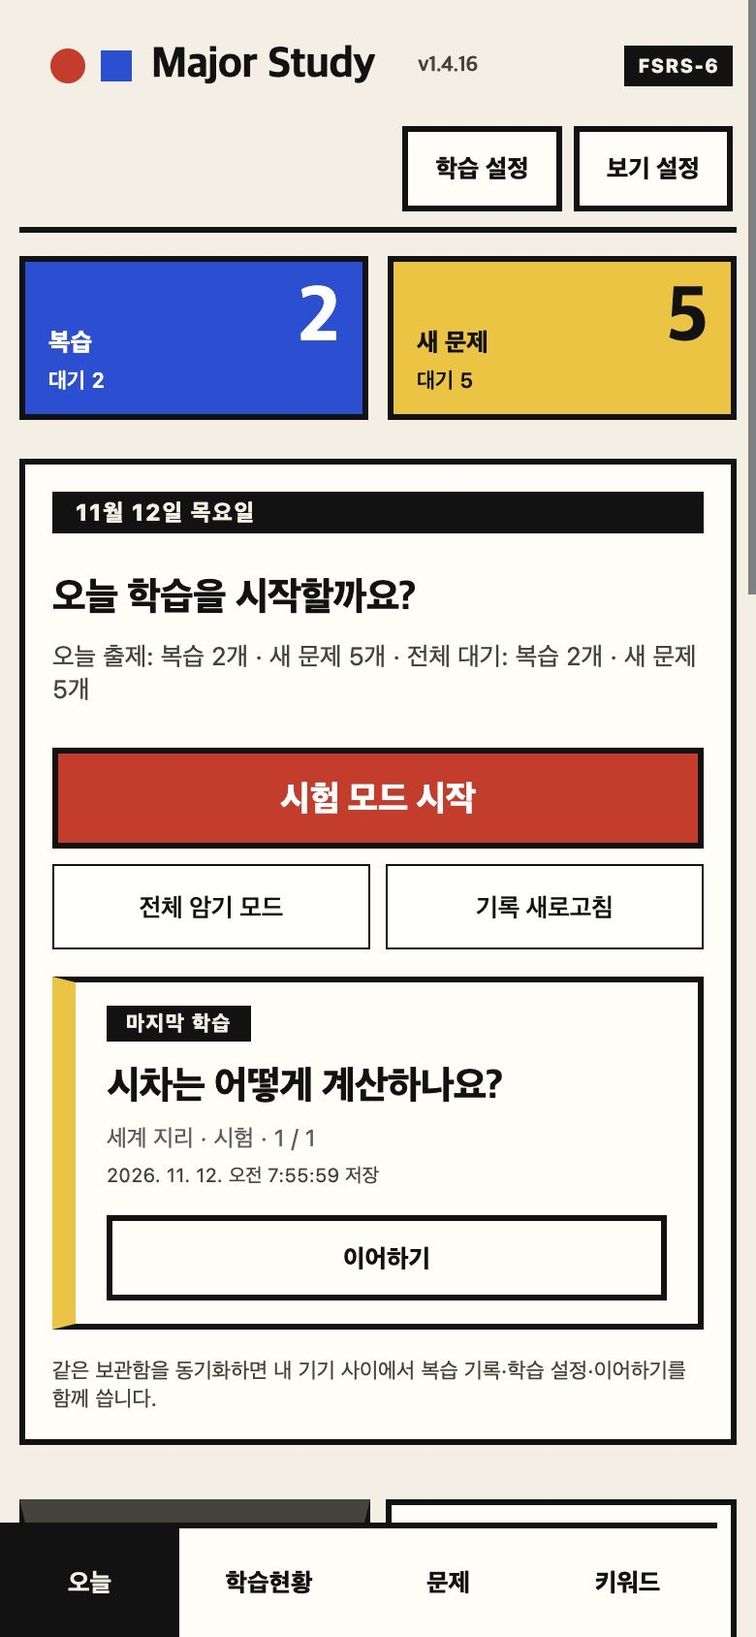
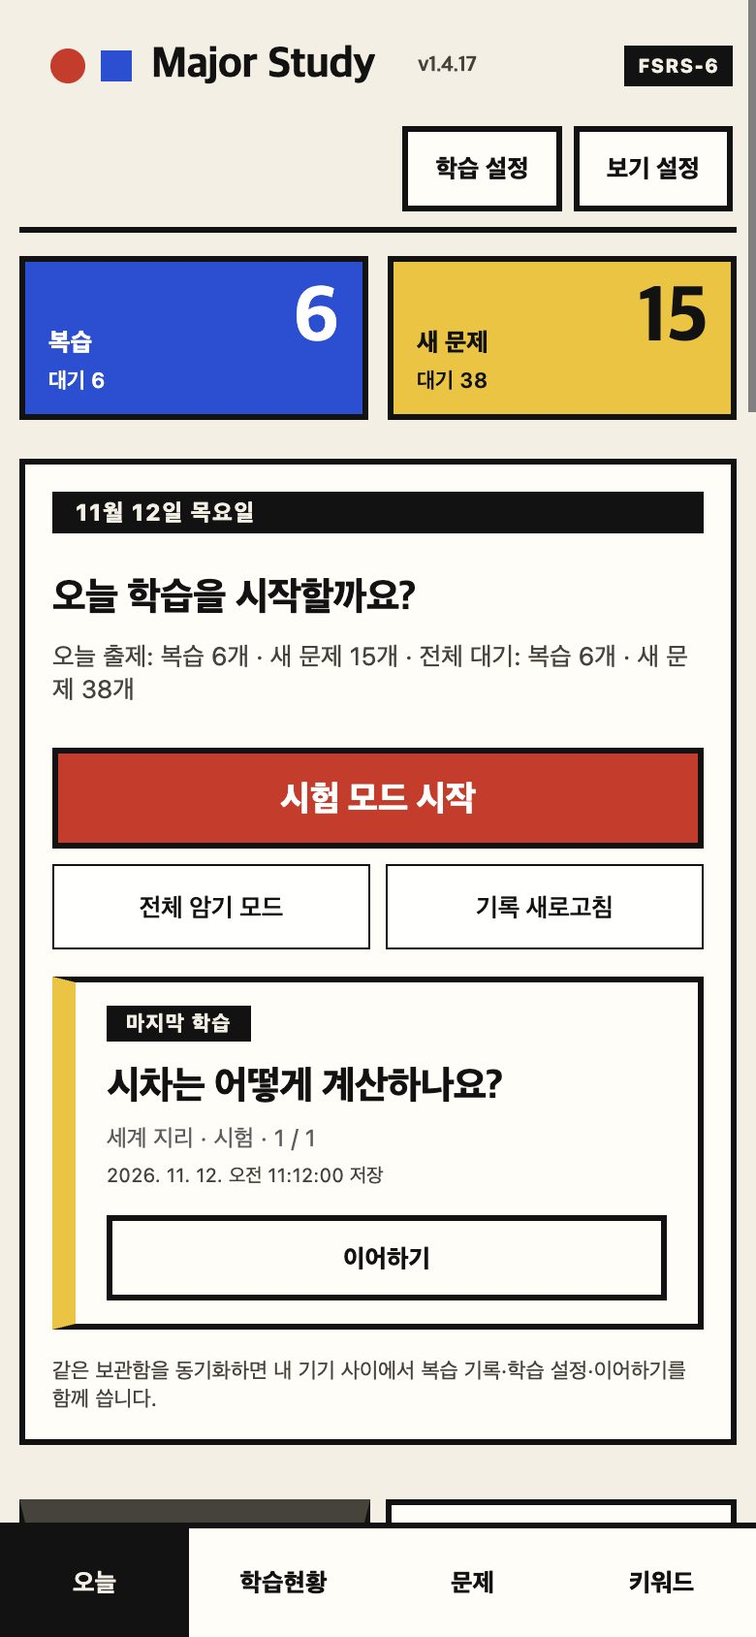
release: MIA Study 1.4.17
Phone layout fixes from a real-iPhone test: a compact study screen, a
full-width tab bar that applies only on phones, and safe-area padding for
the full-screen detail dialog. Homepage mobile screenshots and docs are
updated. main.js and styles.css change; storage format and algorithm are
unchanged.

diff --git a/docs/index.html b/docs/index.html
@@ -5,9 +5,9 @@
 <meta name="viewport" content="width=device-width,initial-scale=1">
 <meta name="color-scheme" content="light dark">
 <title>MIA Study · Obsidian 전공 공부 플러그인</title>
-<meta name="description" content="Obsidian 안에서 전공 질문을 모으고, 키워드로 연결하고, FSRS-6로 복습하는 플러그인. 정식 1.4.16 다운로드와 설치 안내.">
+<meta name="description" content="Obsidian 안에서 전공 질문을 모으고, 키워드로 연결하고, FSRS-6로 복습하는 플러그인. 정식 1.4.17 다운로드와 설치 안내.">
 <meta property="og:title" content="MIA Study · Obsidian 전공 공부 플러그인">
-<meta property="og:description" content="질문·키워드·FSRS-6 복습을 Obsidian 안에서. 정식 1.4.16.">
+<meta property="og:description" content="질문·키워드·FSRS-6 복습을 Obsidian 안에서. 정식 1.4.17.">
 <meta property="og:image" content="https://kimchi-kang.github.io/mia-study-obsidian/assets/screens/desktop-dashboard.jpg">
 <meta property="og:type" content="website">
 <link rel="preconnect" href="https://fonts.googleapis.com">
@@ -279,11 +279,11 @@ footer .fm .t{background:var(--yellow);clip-path:polygon(50% 0,100% 100%,0 100%)
   <div class="wrap">
     <div class="hero-grid">
       <div>
-        <span class="ver">정식 1.4.16</span>
+        <span class="ver">정식 1.4.17</span>
         <h1>질문을 모으고,<br><em>잊기 전에</em><br>다시 꺼낸다.</h1>
         <p class="lead">Obsidian 안에서 과목·질문·키워드를 폼으로 관리하고, FSRS-6로 복습 시점을 잡아 주는 공부 플러그인. Markdown을 직접 쓰지 않아도 되고, 문제마다 노트를 만들지도 않습니다. 1.4.13부터 플러그인 화면도 이 페이지와 같은 바우하우스 스타일(빨강·노랑·파랑, 두꺼운 테두리, 각진 모서리)입니다.</p>
         <div class="cta">
-          <a class="btn btn-red" href="https://github.com/kimchi-kang/mia-study-obsidian/releases/download/1.4.16/mia-study-1.4.16.zip" download>↓ 1.4.16 다운로드</a>
+          <a class="btn btn-red" href="https://github.com/kimchi-kang/mia-study-obsidian/releases/download/1.4.17/mia-study-1.4.17.zip" download>↓ 1.4.17 다운로드</a>
           <a class="btn btn-line" href="#install">BRAT 설치</a>
         </div>
         <p class="meta"><span>무료 · MIT</span><span>데스크톱·모바일</span><span>Obsidian 1.8.7+</span></p>
@@ -419,13 +419,13 @@ footer .fm .t{background:var(--yellow);clip-path:polygon(50% 0,100% 100%,0 100%)
       <div class="sh"><span class="shape sq-y" aria-hidden="true"></span><h2>모바일</h2><span class="num">03</span></div>
       <div class="mob">
         <div>
-          <p>좁은 화면에서는 탭이 한 줄로 줄고 평가 버튼이 2×2로 커집니다. Obsidian의 밝은·어두운 테마를 그대로 따르며, 두 테마 모두 같은 바우하우스 스타일입니다.</p>
+          <p>좁은 화면에서는 탭이 한 줄로 줄고 학습 화면 위쪽이 한 줄 막대로 줄고 평가 버튼이 한 줄로 놓입니다. Obsidian의 밝은·어두운 테마를 그대로 따르며, 두 테마 모두 같은 바우하우스 스타일입니다.</p>
           <p>키보드가 열리면 편집창과 검색·설정 화면이 키보드 위 높이에 맞춰지고, 선택한 입력칸이 보이도록 스크롤됩니다. 버튼은 44px 이상의 터치 영역을 씁니다. 화면 왼쪽 가장자리에서 쓸면 학습을 시작한 화면으로 돌아갑니다.</p>
           <p class="honest">데스크톱 Obsidian에서 휴대폰 폭(390px)으로 찍은 화면입니다. 실제 휴대폰 캡처가 아닙니다.</p>
         </div>
         <div class="phones">
           <figure class="phone"><img src="assets/screens/mobile-dashboard.jpg" width="780" height="1688" loading="lazy" alt="390픽셀 폭 어두운 테마의 오늘 화면. 파란 복습·노란 새 문제 타일, 시험 모드 시작 버튼, 이어하기 카드와 아래쪽 탭 바(오늘·학습현황·문제·키워드)가 보인다."></figure>
-          <figure class="phone"><img src="assets/screens/mobile-study.jpg" width="780" height="1688" loading="lazy" alt="390픽셀 폭 학습 화면. 수식이 렌더링된 모범 답안 아래에 빨강·노랑·흰색·파랑 평가 버튼 네 개가 2×2로 배치되어 있다."></figure>
+          <figure class="phone"><img src="assets/screens/mobile-study.jpg" width="780" height="1688" loading="lazy" alt="390픽셀 폭 학습 화면. 수식이 렌더링된 모범 답안 아래에 빨강·노랑·흰색·파랑 평가 버튼 네 개가 한 줄로 배치되어 있고, 위쪽은 한 줄 막대와 진행선이다."></figure>
         </div>
       </div>
     </div>
@@ -483,11 +483,11 @@ footer .fm .t{background:var(--yellow);clip-path:polygon(50% 0,100% 100%,0 100%)
         <h3>ZIP 직접 설치</h3>
         <ol>
           <li>보관함을 백업하고 Obsidian을 닫습니다.</li>
-          <li><a href="https://github.com/kimchi-kang/mia-study-obsidian/releases/download/1.4.16/mia-study-1.4.16.zip">ZIP</a>의 <code>main.js</code> <code>styles.css</code> <code>manifest.json</code> 세 파일을 아래 폴더에 복사합니다.<code class="blk">.obsidian/<wbr>plugins/<wbr>mia-study/</code></li>
+          <li><a href="https://github.com/kimchi-kang/mia-study-obsidian/releases/download/1.4.17/mia-study-1.4.17.zip">ZIP</a>의 <code>main.js</code> <code>styles.css</code> <code>manifest.json</code> 세 파일을 아래 폴더에 복사합니다.<code class="blk">.obsidian/<wbr>plugins/<wbr>mia-study/</code></li>
           <li><code>data.json</code>, <code>ui-state.json</code>은 그대로 둡니다. 학습 기록이 여기 있습니다.</li>
           <li>Obsidian을 다시 엽니다.</li>
         </ol>
-        <p class="links"><a href="https://github.com/kimchi-kang/mia-study-obsidian/releases/download/1.4.16/SHA256SUMS">SHA256SUMS</a> · <a href="https://github.com/kimchi-kang/mia-study-obsidian/blob/main/INSTALL.md">INSTALL.md</a></p>
+        <p class="links"><a href="https://github.com/kimchi-kang/mia-study-obsidian/releases/download/1.4.17/SHA256SUMS">SHA256SUMS</a> · <a href="https://github.com/kimchi-kang/mia-study-obsidian/blob/main/INSTALL.md">INSTALL.md</a></p>
       </div>
     </div>
   </div>
@@ -498,17 +498,17 @@ footer .fm .t{background:var(--yellow);clip-path:polygon(50% 0,100% 100%,0 100%)
     <div class="sh"><span class="shape c" aria-hidden="true"></span><h2>최신 업데이트</h2><span class="num">06</span></div>
     <div class="upd">
       <div class="l">
-        <div class="big">1.4.16</div>
+        <div class="big">1.4.17</div>
         <p>2026년 11월 12일</p>
-        <p><a href="https://github.com/kimchi-kang/mia-study-obsidian/releases/tag/1.4.16">릴리스 노트 →</a></p>
+        <p><a href="https://github.com/kimchi-kang/mia-study-obsidian/releases/tag/1.4.17">릴리스 노트 →</a></p>
       </div>
       <div class="r">
-        <h3>탭 4개로 줄인 새 화면 배치</h3>
+        <h3>컴팩트한 휴대폰 학습 화면</h3>
         <ul>
-          <li>탭은 오늘 · 학습현황 · 문제 · 키워드. 취약 문제는 오늘의 취약 띠와 문제의 "▲ 취약" 필터로 옮겼습니다.</li>
-          <li>문제 목록은 열을 맞추고, 넓은 화면에서는 오른쪽 상세 패널로 엽니다. 학습 화면은 큰 색 평가 버튼과 키 안내, 휴대폰은 하단 탭 바와 44px 터치 영역.</li>
+          <li>학습 화면의 머리글·설정·배너를 44px 막대 하나로 줄여 질문이 위쪽에서 시작하고, 평가 버튼은 한 줄입니다.</li>
+          <li>하단 탭 바는 전체 폭으로 고치고 휴대폰에서만 적용, 전체 화면 상세 창에는 안전 영역 여백을 넣었습니다.</li>
         </ul>
-        <p style="margin:0 0 12px"><a href="https://github.com/kimchi-kang/mia-study-obsidian/releases/tag/1.4.15">1.4.15</a>: 질문 상세 창의 초기화 확인과 버튼 정리.</p>
+        <p style="margin:0 0 12px"><a href="https://github.com/kimchi-kang/mia-study-obsidian/releases/tag/1.4.16">1.4.16</a>: 탭 4개로 줄인 새 화면 배치.</p>
         <a href="https://github.com/kimchi-kang/mia-study-obsidian/blob/main/docs/releases/HISTORY.md">전체 변경 이력 →</a>
       </div>
     </div>
@@ -519,7 +519,7 @@ footer .fm .t{background:var(--yellow);clip-path:polygon(50% 0,100% 100%,0 100%)
   <div class="wrap">
     <div class="sh"><span class="shape s" aria-hidden="true"></span><h2>검증</h2><span class="num">07</span></div>
     <div class="verify">
-      <div class="v"><span class="lab ok">통과</span><b>1,712개</b><p>1.4.16 자동 검사 실패·생략 0, 타입 검사·배포 빌드 통과.</p></div>
+      <div class="v"><span class="lab ok">통과</span><b>1,721개</b><p>1.4.17 자동 검사 실패·생략 0, 타입 검사·배포 빌드 통과.</p></div>
       <div class="v"><span class="lab ok">확인</span><b>데스크톱 앱</b><p>macOS Obsidian에서 모든 탭과 시험·암기, 평가·취소, 재시작을 확인했습니다.</p></div>
       <div class="v"><span class="lab no">미검증</span><b>휴대폰 실기기</b><p>iOS·Android 실기기, OS 키보드, 두 기기 실시간 동기화는 직접 확인하지 않았습니다.</p></div>
     </div>
@@ -545,7 +545,7 @@ footer .fm .t{background:var(--yellow);clip-path:polygon(50% 0,100% 100%,0 100%)
 <footer>
   <div class="wrap">
     <span class="fm" aria-hidden="true"><i class="c"></i><i class="s"></i><i class="t"></i></span>
-    <span>MIA Study 1.4.16 · <a href="https://github.com/kimchi-kang/mia-study-obsidian/blob/main/LICENSE">MIT</a> · 복습 일정: <a href="https://github.com/open-spaced-repetition/ts-fsrs">ts-fsrs</a>(FSRS-6)</span>
+    <span>MIA Study 1.4.17 · <a href="https://github.com/kimchi-kang/mia-study-obsidian/blob/main/LICENSE">MIT</a> · 복습 일정: <a href="https://github.com/open-spaced-repetition/ts-fsrs">ts-fsrs</a>(FSRS-6)</span>
     <span><a href="https://github.com/kimchi-kang/mia-study-obsidian">GitHub</a> · <a href="https://github.com/kimchi-kang/mia-study-obsidian/issues">문제 신고</a> · <a href="https://github.com/kimchi-kang/mia-study-obsidian/releases">릴리스</a></span>
   </div>
 </footer>

diff --git a/INSTALL.md b/INSTALL.md
@@ -4,7 +4,7 @@ Obsidian 1.8.7 이상을 대상으로 하며 데스크톱과 모바일을 지원
 
 ## 현재 정식 배포 · 2026-11-11
 
-정식 설치 버전은 **1.4.16**입니다. 화면 배치를 새로 짜서 탭이 `오늘`·`학습현황`·`문제`·`키워드` 4개가 되고(`취약 문제`는 `오늘`의 취약 띠와 `문제`의 `▲ 취약` 필터로 이동), 질문 목록에 오른쪽 상세 패널과 학습 화면의 큰 평가 버튼, 휴대폰 하단 탭 바를 넣었으며(저장 형식 변경 없음, `main.js`·`styles.css` 변경), 1.4.15의 질문 상세 창의 `학습 전으로 초기화`가 실행 전에 확인을 받고 상세 창 버튼 배치를 정리했으며(저장 형식 변경 없음, `main.js`·`styles.css` 변경), 1.4.14의 카드 버튼 정리와 과목 카드·학습현황 과목 카드·키워드 카드의 버튼과 숫자를 한눈에 보이도록 정리했고(버튼은 그대로, `styles.css`만 변경), 1.4.13의 바우하우스 스타일 새 디자인과 1.4.12의 동기화 충돌 복사본·부분 동기화 경고, 1.4.11의 고정 간격 기한일 수정을 포함합니다. 자동 검사와 격리 보관함의 데스크톱 Obsidian 화면으로 확인했으며 모바일 실기기에서는 확인하지 않았습니다. 수동 설치 시 같은 빌드의 세 배포 파일을 함께 사용하세요. [정식 다운로드](https://github.com/kimchi-kang/mia-study-obsidian/releases/tag/1.4.16) · [변경 내역](docs/releases/1.4.16.md) · [1.4.15 변경 내역](docs/releases/1.4.15.md) · [1.4.14 변경 내역](docs/releases/1.4.14.md) · [1.4.13 변경 내역](docs/releases/1.4.13.md) · [1.4.12 변경 내역](docs/releases/1.4.12.md) · [1.4.11 변경 내역](docs/releases/1.4.11.md) · [1.4.10 변경 내역](docs/releases/1.4.10.md) · [1.4.9 변경 내역](docs/releases/1.4.9.md) · [1.4.8 변경 내역](docs/releases/1.4.8.md) · [1.4.6 변경 내역](docs/releases/1.4.6.md) · [1.4.5 변경 내역](docs/releases/1.4.5.md) · [1.4.3 설치 검증과 복구](docs/qa/1.4.3-integration/README.md)
+정식 설치 버전은 **1.4.17**입니다. 휴대폰 화면을 손봐 학습 화면(암기·시험)의 머리글·설정·배너를 44px 막대 하나로 줄이고 평가 버튼을 한 줄로 놓았으며, 하단 탭 바를 전체 폭으로 고치고(휴대폰에서만 적용) 전체 화면 상세 창에 안전 영역 여백을 넣었습니다(레이아웃만 변경, 저장 형식 변경 없음, `main.js`·`styles.css` 변경). 1.4.16의 화면 배치를 새로 짜서 탭이 `오늘`·`학습현황`·`문제`·`키워드` 4개가 되고(`취약 문제`는 `오늘`의 취약 띠와 `문제`의 `▲ 취약` 필터로 이동), 질문 목록에 오른쪽 상세 패널과 학습 화면의 큰 평가 버튼, 휴대폰 하단 탭 바를 넣었으며(저장 형식 변경 없음, `main.js`·`styles.css` 변경), 1.4.15의 질문 상세 창의 `학습 전으로 초기화`가 실행 전에 확인을 받고 상세 창 버튼 배치를 정리했으며(저장 형식 변경 없음, `main.js`·`styles.css` 변경), 1.4.14의 카드 버튼 정리와 과목 카드·학습현황 과목 카드·키워드 카드의 버튼과 숫자를 한눈에 보이도록 정리했고(버튼은 그대로, `styles.css`만 변경), 1.4.13의 바우하우스 스타일 새 디자인과 1.4.12의 동기화 충돌 복사본·부분 동기화 경고, 1.4.11의 고정 간격 기한일 수정을 포함합니다. 자동 검사와 격리 보관함의 데스크톱 Obsidian 화면으로 확인했으며 모바일 실기기에서는 확인하지 않았습니다. 수동 설치 시 같은 빌드의 세 배포 파일을 함께 사용하세요. [정식 다운로드](https://github.com/kimchi-kang/mia-study-obsidian/releases/tag/1.4.17) · [변경 내역](docs/releases/1.4.17.md) · [1.4.16 변경 내역](docs/releases/1.4.16.md) · [1.4.15 변경 내역](docs/releases/1.4.15.md) · [1.4.14 변경 내역](docs/releases/1.4.14.md) · [1.4.13 변경 내역](docs/releases/1.4.13.md) · [1.4.12 변경 내역](docs/releases/1.4.12.md) · [1.4.11 변경 내역](docs/releases/1.4.11.md) · [1.4.10 변경 내역](docs/releases/1.4.10.md) · [1.4.9 변경 내역](docs/releases/1.4.9.md) · [1.4.8 변경 내역](docs/releases/1.4.8.md) · [1.4.6 변경 내역](docs/releases/1.4.6.md) · [1.4.5 변경 내역](docs/releases/1.4.5.md) · [1.4.3 설치 검증과 복구](docs/qa/1.4.3-integration/README.md)
 
 ## 처음 설치
 

diff --git a/STATUS.md b/STATUS.md
@@ -1,6 +1,8 @@
 # MIA Study 현재 작업·검증·배포 상태
 
-2026-11-12 KST. **현재 정식 배포는 1.4.16**입니다. 화면 배치를 새로 짰습니다(레이아웃만 변경, 저장 형식·알고리즘 변경 없음, `main.js`·`styles.css` 변경). 탭은 `오늘`·`학습현황`·`문제`·`키워드` 4개이고 `취약 문제`는 `오늘`의 취약 띠와 `문제`의 `▲ 취약` 필터로 옮겼습니다. 문제 목록에 오른쪽 상세 패널, 학습 화면에 큰 평가 버튼, 휴대폰에 하단 탭 바를 넣었습니다. 전체 1,712개(실패·생략 0), 타입 검사·빌드 통과. 예시 문제로 만든 격리 보관함에서 데스크톱 Obsidian의 밝은·어두운 테마를 여러 폭으로, 휴대폰 폭(390px)을 확인했습니다. **모바일 실기기와 두 기기 동기화는 미검증입니다(휴대폰 전체 화면 상세는 CSS 대용으로만 확인).** [정식 릴리스](https://github.com/kimchi-kang/mia-study-obsidian/releases/tag/1.4.16) · [변경 내역](docs/releases/1.4.16.md) · [1.4.16 SHA256SUMS](https://github.com/kimchi-kang/mia-study-obsidian/releases/download/1.4.16/SHA256SUMS)
+2026-11-12 KST. **현재 정식 배포는 1.4.17**입니다. 실제 아이폰 사용 결과를 반영한 휴대폰 레이아웃 수정입니다(저장 형식·알고리즘 변경 없음, `main.js`·`styles.css` 변경). 학습 화면(암기·시험)의 머리글·설정 줄·배너·진행 상자를 44px 막대 하나와 4px 진행선으로 줄였고 평가 버튼은 한 줄입니다. 하단 탭 바는 전체 폭이며 휴대폰에서만 적용됩니다. 전체 화면 상세 창에는 위·아래·좌·우 안전 영역 여백을 넣었습니다. 전체 1,721개(실패·생략 0), 타입 검사·빌드 통과. 예시 문제로 만든 격리 보관함에서 휴대폰 크기와 안전 영역 여백을 흉내 내 확인했으며 **모바일 실기기와 두 기기 동기화는 미검증입니다.** [정식 릴리스](https://github.com/kimchi-kang/mia-study-obsidian/releases/tag/1.4.17) · [변경 내역](docs/releases/1.4.17.md) · [1.4.17 SHA256SUMS](https://github.com/kimchi-kang/mia-study-obsidian/releases/download/1.4.17/SHA256SUMS)
+
+2026-11-12 KST. **당시 정식 배포 1.4.16**입니다. 화면 배치를 새로 짰습니다(레이아웃만 변경, 저장 형식·알고리즘 변경 없음, `main.js`·`styles.css` 변경). 탭은 `오늘`·`학습현황`·`문제`·`키워드` 4개이고 `취약 문제`는 `오늘`의 취약 띠와 `문제`의 `▲ 취약` 필터로 옮겼습니다. 문제 목록에 오른쪽 상세 패널, 학습 화면에 큰 평가 버튼, 휴대폰에 하단 탭 바를 넣었습니다. 전체 1,712개(실패·생략 0), 타입 검사·빌드 통과. 예시 문제로 만든 격리 보관함에서 데스크톱 Obsidian의 밝은·어두운 테마를 여러 폭으로, 휴대폰 폭(390px)을 확인했습니다. **모바일 실기기와 두 기기 동기화는 미검증입니다(휴대폰 전체 화면 상세는 CSS 대용으로만 확인).** [정식 릴리스](https://github.com/kimchi-kang/mia-study-obsidian/releases/tag/1.4.16) · [변경 내역](docs/releases/1.4.16.md) · [1.4.16 SHA256SUMS](https://github.com/kimchi-kang/mia-study-obsidian/releases/download/1.4.16/SHA256SUMS)
 
 2026-11-11 KST. **당시 정식 배포 1.4.15**입니다. 질문 상세 창의 `학습 전으로 초기화`가 실행 전에 확인 창(기록 수 표시, 되돌릴 수 없음 안내, 취소/초기화)을 띄우고, 상세 창 버튼을 정리했습니다(저장 형식·알고리즘 변경 없음, `main.js`·`styles.css` 변경). 전체 1,686개(실패·생략 0), 타입 검사·빌드 통과. 예시 문제로 만든 격리 보관함에서 데스크톱 Obsidian의 밝은·어두운 테마와 휴대폰 폭(390px)을 확인했습니다. **모바일 실기기와 두 기기 동기화는 미검증입니다.** [정식 릴리스](https://github.com/kimchi-kang/mia-study-obsidian/releases/tag/1.4.15) · [변경 내역](docs/releases/1.4.15.md) · [1.4.15 SHA256SUMS](https://github.com/kimchi-kang/mia-study-obsidian/releases/download/1.4.15/SHA256SUMS)
 

diff --git a/docs/releases/1.4.17.md b/docs/releases/1.4.17.md
@@ -1,0 +1,14 @@
+# MIA Study 1.4.17
+
+2026-11-12 정식 배포
+
+**실제 아이폰으로 써 본 결과를 반영해 휴대폰 화면을 손봤습니다. 학습 화면이 훨씬 컴팩트해졌고, 하단 탭 바와 전체 화면 상세 창의 여백을 바로잡았습니다. 저장 방식과 학습 알고리즘은 바뀌지 않았습니다.**
+
+- **휴대폰 학습 화면(암기·시험).** 높은 머리글, 설정 줄, 모드 배너, 빈 진행 상자를 44px 막대 하나로 합쳤습니다. `학습 나가기` · 모드 · `n/전체` · `학습 설정` · `보기 설정`이 한 줄에 있고 현재 위치는 항상 보입니다. 과목은 카드 안으로 옮겼습니다. 진행은 4px 선으로 보여 줍니다. `편집`은 카드 모서리에 고정했고, 모범 답안 상자는 노란 왼쪽 선과 같은 줄의 `모범 답안` 라벨을 쓰는 납작한 형태이며 줄 간격은 1.6입니다. 평가 버튼은 네 개가 한 줄(높이 56px)에 간격과 함께 놓입니다. 밀어서 이동 안내는 `조작 안내`에 이미 있어 숨겼습니다. 390×624(아이폰에서 Obsidian 자체 막대를 뺀 높이)에서 질문이 413px이 아니라 100px에서 시작하고, 128자 답안이 모두 보입니다. 약 200자까지 들어가며 더 긴 답안은 카드 안에서 스크롤됩니다. 버튼은 하나도 없애지 않았습니다.
+- **하단 탭 바.** 최대 폭 제한 때문에 왼쪽으로 치우치고 오른쪽이 비던 문제를 고쳤습니다. 320–640px과 가로 방향에서 전체 폭을 쓰고, 홈 표시줄 안전 영역을 비웁니다. 휴대폰(`data-device="phone"`)에서만 적용되며 좁은 데스크톱 창은 위쪽 탭을 그대로 씁니다.
+- **휴대폰 전체 화면 상세 창.** 위·아래·좌·우 안전 영역 여백을 넣어 시계와 다이내믹 아일랜드를 가리지 않습니다. 빨간 `학습 전으로 초기화`는 따로 한 줄에 전부 보입니다. `dvh`를 지원하지 않는 환경을 위해 `100vh` 대체값을 넣었습니다.
+- **그 밖에.** 집중 모드에서 아래 여백이 두 번 잡히던 것을 고쳤고, 휴대폰 규칙이 가로 방향(높이 500px 이하, 터치 입력)에도 적용됩니다. 화면 낭독기의 읽는 순서가 보이는 순서와 같아졌습니다.
+
+`main.js`와 `styles.css`가 바뀌었고 저장 형식과 학습 알고리즘은 바뀌지 않았습니다. 전체 자동 검사 1,721개(실패·생략 0)와 타입 검사·빌드를 통과했습니다. 예시 문제로 만든 격리 보관함에서 휴대폰 크기와 안전 영역 여백을 흉내 내 확인했습니다. 모바일 실기기에서는 따로 확인하지 않았습니다. [설치와 복구](https://github.com/kimchi-kang/mia-study-obsidian/blob/main/INSTALL.md)
+
+수동 업데이트는 기존 파일을 백업한 뒤 ZIP의 `main.js`, `styles.css`, `manifest.json`을 함께 교체하세요. 기존 학습 기록·설정·이어하기는 보관함에 유지합니다. 최소 Obsidian 버전은 1.8.7입니다.

diff --git a/README.md b/README.md
@@ -10,7 +10,7 @@
 ![Platforms](https://img.shields.io/badge/desktop%20%C2%B7%20mobile-supported-2f9e5b)
 [![License](https://img.shields.io/github/license/kimchi-kang/mia-study-obsidian?color=555)](LICENSE)
 
-[**소개 페이지**](https://kimchi-kang.github.io/mia-study-obsidian/) · [**1.4.16 다운로드**](https://github.com/kimchi-kang/mia-study-obsidian/releases/download/1.4.16/mia-study-1.4.16.zip) · [변경 내역](docs/releases/1.4.16.md) · [현재 상태](STATUS.md)
+[**소개 페이지**](https://kimchi-kang.github.io/mia-study-obsidian/) · [**1.4.17 다운로드**](https://github.com/kimchi-kang/mia-study-obsidian/releases/download/1.4.17/mia-study-1.4.17.zip) · [변경 내역](docs/releases/1.4.17.md) · [현재 상태](STATUS.md)
 
 <img src="docs/assets/screens/desktop-dashboard.jpg" alt="MIA Study 오늘 화면. 바우하우스 디자인의 복습·새 문제 블록, 시작 패널, 취약 문제 띠와 과목별 학습 카드" width="860">
 
@@ -26,7 +26,7 @@ Obsidian 안에서 과목·질문·키워드를 폼으로 관리하면서 FSRS-6
 
 화면은 1.4.13 바우하우스 디자인(빨강·노랑·파랑, 두꺼운 테두리, 각진 모서리)과 직접 만든 일반 상식 데모 보관함(수학 기초·세계 지리·요리 과학)으로 찍었습니다. 수식·이미지·표·코드 렌더링을 보여 주는 예시 질문이며 실제 학습 내용이 아닙니다. 모바일 화면은 데스크톱 Obsidian에서 휴대폰 폭을 흉내 낸 것입니다.
 
-[1.4.16 정식 릴리스](https://github.com/kimchi-kang/mia-study-obsidian/releases/tag/1.4.16) · [다운로드·설치 안내](https://kimchi-kang.github.io/mia-study-obsidian/) · [현재 상태](STATUS.md) · [1.4.16 변경 내역](docs/releases/1.4.16.md) · [이전 버전 이력](docs/releases/HISTORY.md)
+[1.4.17 정식 릴리스](https://github.com/kimchi-kang/mia-study-obsidian/releases/tag/1.4.17) · [다운로드·설치 안내](https://kimchi-kang.github.io/mia-study-obsidian/) · [현재 상태](STATUS.md) · [1.4.17 변경 내역](docs/releases/1.4.17.md) · [이전 버전 이력](docs/releases/HISTORY.md)
 
 Major Study 제목 바로 옆에서 현재 실행 중인 버전을 확인할 수 있습니다. 업데이트한 파일을 로드하려면 Obsidian을 다시 시작하세요. 수식은 원문에 `$...$` 또는 `$$...$$` 구분자와 TeX 문법이 있어야 표시됩니다. 예를 들어 `vC(t) = Vs(1 - e^(-t/RC))` 같은 일반 문장은 자동으로 수식으로 바뀌지 않습니다.
 
